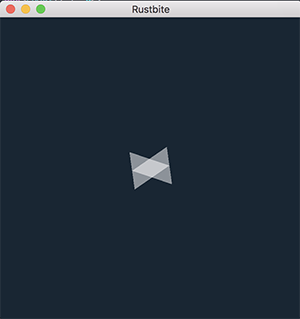
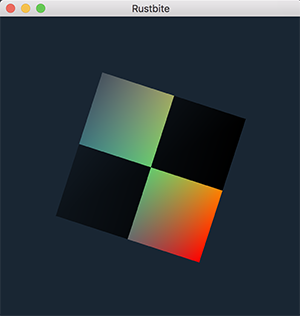
finaly learned how to draw :|

Changed region(s): [[0.18, 0.2278, 0.84, 0.8259], [0.0, 0.0, 1.0, 0.057]]

diff --git a/playground/src/main.rs b/playground/src/main.rs
@@ -2,7 +2,7 @@
 extern crate rustbite;
 extern crate gl;
 
-use rustbite::{vec3, mat4, quat, app, shader};
+use rustbite::{vec3, mat4, quat, app, shader, math};
 
 use std::rc::Rc;
 use std::cell::RefCell;
@@ -14,9 +14,9 @@ use std::ptr;
 fn main() {
 
 
-    let mut model: mat4;
+    let mut model = Rc::new(RefCell::new(mat4::identify(1.0)));
     let mut view = Rc::new(RefCell::new(mat4::create_trs(vec3::zero(), quat::identify(), vec3::one())));
-    let mut projection = Rc::new(RefCell::new(mat4::ortho_window(4.0, 1.0, -0.1, 200.0)));
+    let mut projection = Rc::new(RefCell::new(mat4::ortho_window(1.0, 1.0, -0.1, 200.0)));
 
     
     let mut i = Rc::new(RefCell::new(0.0_f32));
@@ -25,22 +25,34 @@ fn main() {
         #version 150
 
         in vec3 position;
+        in vec4 color;
+        in vec2 texcoord;
+
+        out vec4 _color;
+        out vec2 _texcoord;
 
 
         uniform mat4 projection;
         uniform mat4 view;
+        uniform mat4 model;
 
         void main() {
-            gl_Position = projection * view * vec4(position, 1.0);
+            _color = color;
+            _texcoord = texcoord;
+            gl_Position = projection * view * model * vec4(position, 1.0);
         }
     \0",b"
         #version 150
 
+        in vec4 _color;
+        in vec2 _texcoord;
+
         out vec4 outColor;
+        uniform sampler2D tex;
 
         void main()
         {
-            outColor = vec4(1.0, 1.0, 1.0, 0.5);
+            outColor = texture(tex, _texcoord) * _color;
         }
     \0")));
 
@@ -52,68 +64,112 @@ fn main() {
     let create = Box::new(|| {
         let mut data = sim.borrow_mut();
         data.compile();
+
+
+        unsafe{
+
+            let vtx: [f32; 36] = [
+                -0.5, 0.5, 0.0, 1.0, 1.0, 0.0, 1.0, 0.0, 0.0,
+                0.5, 0.5, 0.0, 1.0, 0.0, 0.0, 1.0, 1.0, 0.0,
+                0.5, -0.5, 0.0, 0.0, 1.0, 1.0, 0.5, 1.0, 1.0,
+                -0.5, -0.5, 0.0, 1.0, 1.0, 1.0, 0.2, 0.0, 1.0
+            ];
+
+            let indc: [gl::types::GLuint; 6] = [
+                0, 1, 2,
+                2, 3, 0
+            ];
+
+            let mut vao = mem::uninitialized();
+            gl::GenVertexArrays(1, &mut vao);
+            gl::BindVertexArray(vao);
+
+
+            let mut vbo = mem::uninitialized();
+            gl::GenBuffers(1, &mut vbo);
+            gl::BindBuffer(gl::ARRAY_BUFFER, vbo);
+            gl::BufferData(gl::ARRAY_BUFFER, (vtx.len() * mem::size_of::<f32>()) as isize, vtx.as_ptr() as *const _, gl::STATIC_DRAW);
+
+
+            let mut ebo = mem::uninitialized();
+            gl::GenBuffers(1, &mut ebo);
+            gl::BindBuffer(gl::ELEMENT_ARRAY_BUFFER, ebo);
+            gl::BufferData(gl::ELEMENT_ARRAY_BUFFER, (indc.len() * mem::size_of::<gl::types::GLuint>()) as isize, indc.as_ptr() as *const _, gl::STATIC_DRAW);
+
+            data.use_here();
+
+            let pos_attrib = gl::GetAttribLocation(data.program, b"position\0".as_ptr() as *const _);
+            gl::VertexAttribPointer(pos_attrib as gl::types::GLuint, 3, gl::FLOAT,  gl::FALSE, (9 * mem::size_of::<f32>()) as gl::types::GLsizei, ptr::null());
+            gl::EnableVertexAttribArray(pos_attrib as gl::types::GLuint);
+
+            let pos_attrib = gl::GetAttribLocation(data.program, b"color\0".as_ptr() as *const _);
+            gl::VertexAttribPointer(pos_attrib as gl::types::GLuint, 4, gl::FLOAT,  gl::FALSE, (9 * mem::size_of::<f32>()) as gl::types::GLsizei, (3 * mem::size_of::<f32>()) as *const () as *const _);
+            gl::EnableVertexAttribArray(pos_attrib as gl::types::GLuint);
+
+            let coord_attrib = gl::GetAttribLocation(data.program, b"texcoord\0".as_ptr() as *const _);
+            gl::VertexAttribPointer(coord_attrib as gl::types::GLuint, 2, gl::FLOAT,  gl::FALSE, (9 * mem::size_of::<f32>()) as gl::types::GLsizei, (7 * mem::size_of::<f32>()) as *const () as *const _);
+            gl::EnableVertexAttribArray(coord_attrib as gl::types::GLuint);
+
+
+            let mut texture = mem::uninitialized();
+
+            gl::GenTextures(1, &mut texture);
+            gl::ActiveTexture(gl::TEXTURE0);
+            gl::BindTexture(gl::TEXTURE_2D, texture);
+            
+            let pixels: [f32; 12] = [
+                0.0, 0.0, 0.0,   1.0, 1.0, 1.0,
+                1.0, 1.0, 1.0,   0.0, 0.0, 0.0
+            ];
+            
+            gl::TexImage2D(gl::TEXTURE_2D, 0, gl::RGB as i32, 2, 2, 0, gl::RGB, gl::FLOAT, pixels.as_ptr() as *const _);
+            
+
+            gl::Uniform1i(gl::GetUniformLocation(data.program, b"tex".as_ptr() as *const _), 0);
+
+            gl::TexParameteri(gl::TEXTURE_2D, gl::TEXTURE_WRAP_S, gl::CLAMP_TO_EDGE as i32);
+            gl::TexParameteri(gl::TEXTURE_2D, gl::TEXTURE_WRAP_T, gl::CLAMP_TO_EDGE as i32);
+            gl::TexParameteri(gl::TEXTURE_2D, gl::TEXTURE_MIN_FILTER, gl::NEAREST as i32);
+            gl::TexParameteri(gl::TEXTURE_2D, gl::TEXTURE_MAG_FILTER, gl::NEAREST as i32);
+
+
+
+
+
+        }
     });
 
+    let mut m = 0.0;
     let update = Box::new(|| {
         let mut data = sim.borrow_mut();
         let mut proj = projection.borrow_mut();
-        let mut viw = view.borrow_mut();
-
-        let mut g = i.borrow_mut();
-
-        
-
-        *viw = mat4::create_rotation(quat::from_angle_axis(*g, vec3::forward()));
-
-    
-        *g = *g + 1.0;
-
-        unsafe {
-            data.use_here();
-
-
+        let viw = view.borrow_mut();
+        let mut mdl = model.borrow_mut();
             
 
-            let vtx: [f32; 18] = [
-                -0.5, -0.5, 0.0,
-                0.0, 0.5, 0.0,
-                0.5, -0.5, 0.0,
+        *mdl = mat4::create_rotation(quat::from_angle_axis(m, vec3::forward()));
 
-
-                 -0.5, 0.5, 0.0,
-                0.0, -0.5, 0.0,
-                0.5, 0.5, 0.0,
-                
-            ];
-
-            let mut vb = mem::uninitialized();
-            gl::GenBuffers(1, &mut vb);
-            gl::BindBuffer(gl::ARRAY_BUFFER, vb);
-            gl::BufferData(gl::ARRAY_BUFFER, (vtx.len() * mem::size_of::<f32>()) as isize, vtx.as_ptr() as *const _, gl::STATIC_DRAW);
-
-            if gl::BindVertexArray::is_loaded() {
-                let mut vao = mem::uninitialized();
-                gl::GenVertexArrays(1, &mut vao);
-                gl::BindVertexArray(vao);
-            }
-
-            let pos_attrib = gl::GetAttribLocation(data.program, b"position\0".as_ptr() as *const _);
-            gl::VertexAttribPointer(pos_attrib as gl::types::GLuint, 3, gl::FLOAT,  gl::FALSE, 0, ptr::null());
-            gl::EnableVertexAttribArray(pos_attrib as gl::types::GLuint);
-
-
+        m = m + 1.0;
+            
+        unsafe {
+        
             let proj_attrib = gl::GetUniformLocation(data.program, b"projection\0".as_ptr() as *const _);
             gl::UniformMatrix4fv(proj_attrib, 1, gl::FALSE, proj.source.as_ptr() as *const _);
 
 
-            let proj_attrib = gl::GetUniformLocation(data.program, b"view\0".as_ptr() as *const _);
-            gl::UniformMatrix4fv(proj_attrib, 1, gl::FALSE, viw.source.as_ptr() as *const _);
+            let view_attrib = gl::GetUniformLocation(data.program, b"view\0".as_ptr() as *const _);
+            gl::UniformMatrix4fv(view_attrib, 1, gl::FALSE, viw.source.as_ptr() as *const _);
+
+
+            let model_attrib = gl::GetUniformLocation(data.program, b"model\0".as_ptr() as *const _);
+            gl::UniformMatrix4fv(model_attrib, 1, gl::FALSE, mdl.source.as_ptr() as *const _);
 
 
             gl::Enable(gl::BLEND);
             gl::BlendFunc(gl::SRC_ALPHA, gl::ONE_MINUS_SRC_ALPHA);
 
-            gl::DrawArrays(gl::TRIANGLES, 0, 6);
+            gl::DrawElements(gl::TRIANGLES, 6, gl::UNSIGNED_INT, ptr::null());
+
         }
     });
 

diff --git a/rustbite/src/_shader.rs b/rustbite/src/_shader.rs
@@ -30,6 +30,7 @@ impl shader {
             self.program = gl::CreateProgram();
             gl::AttachShader(self.program, vs);
             gl::AttachShader(self.program, fs);
+            
         }
     }
 

diff --git a/rustbite/src/_app.rs b/rustbite/src/_app.rs
@@ -51,7 +51,6 @@ impl<'a> app<'a> {
             }
             (self.update)();
             window.swap_buffers().unwrap();
-
         }
 
 
